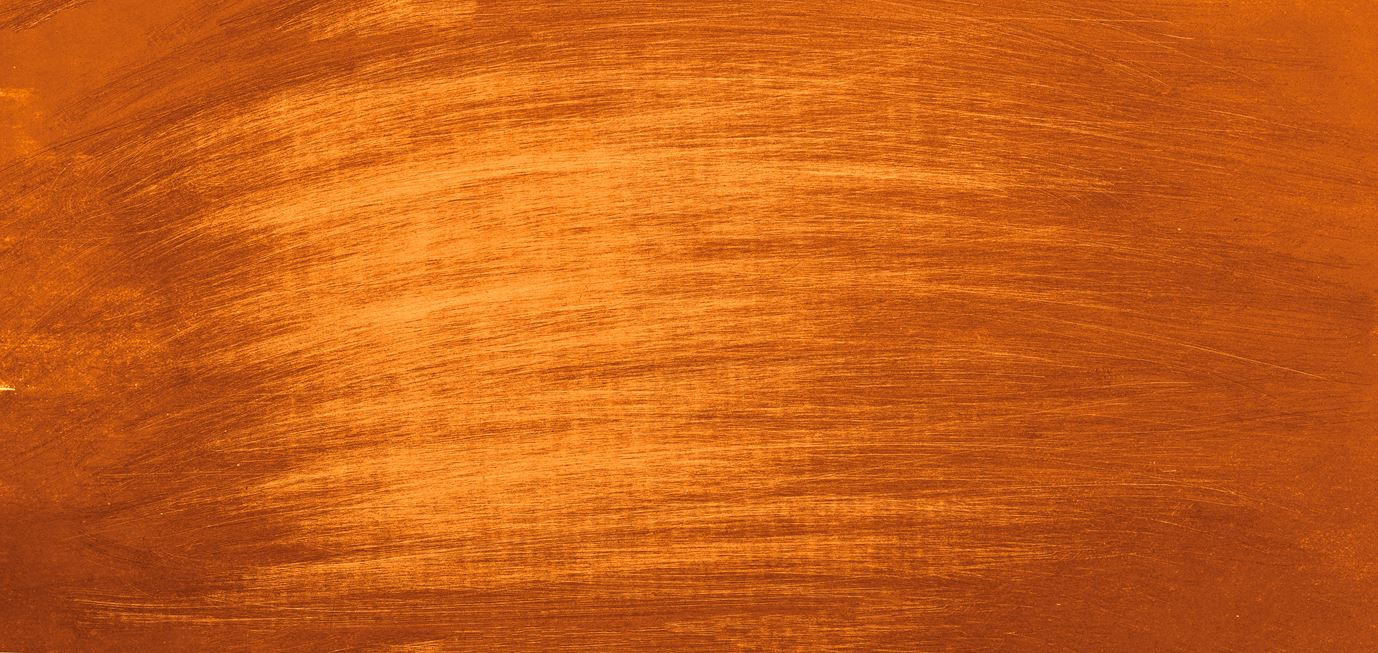
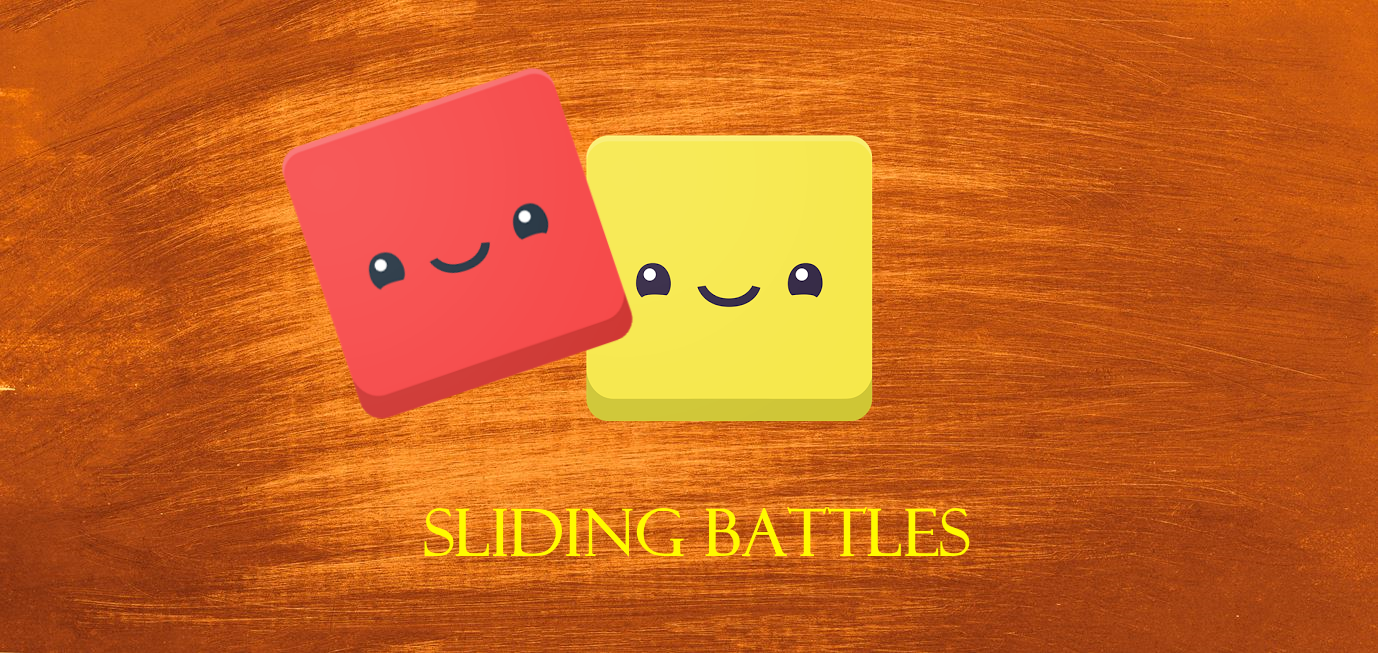
Changed background, canvas is now only initialized on data load.

Changed region(s): [[0.1872, 0.0919, 0.6553, 0.6432], [0.312, 0.7657, 0.7177, 0.8576]]

diff --git a/public/views/index.html b/public/views/index.html
@@ -13,7 +13,7 @@
     <link rel="stylesheet" href="https://use.fontawesome.com/releases/v5.0.10/css/all.css"
           integrity="sha384-+d0P83n9kaQMCwj8F4RJB66tzIwOKmrdb46+porD/OvrJ+37WqIM7UoBtwHO6Nlg" crossorigin="anonymous">
 </head>
-<body style="margin: 0; padding: 0" onresize="_resize()">
+<body style="margin: 0; padding: 0" onresize="_resize()" background="../assets/background.png">
 <div id="wrapper" class="wrapper">
     <div id="login" class="login" style="display: none;">
         <label>Username:<br>

diff --git a/public/scripts/_classes.js b/public/scripts/_classes.js
@@ -89,9 +89,9 @@ var View = /** @class */ (function () {
             var loginDiv = document.getElementById("login");
             if (loginDiv)
                 loginDiv.style.display = '';
+            document.body.appendChild(_this.canvas.view);
             _this.load(onload);
         });
-        document.body.appendChild(this.canvas.view);
     }
     View.prototype.load = function (onload) {
         var background = Util.loadImage("background.png");

diff --git a/public/scripts/_classes.ts b/public/scripts/_classes.ts
@@ -126,10 +126,10 @@ class View {
         PIXI.loader.add(images).load(() => {
                 let loginDiv = document.getElementById("login");
                 if (loginDiv) loginDiv.style.display = '';
+                document.body.appendChild(this.canvas.view);
                 this.load(onload)
             }
         );
-        document.body.appendChild(this.canvas.view);
     }
 
     load(onload?: () => void): void {
